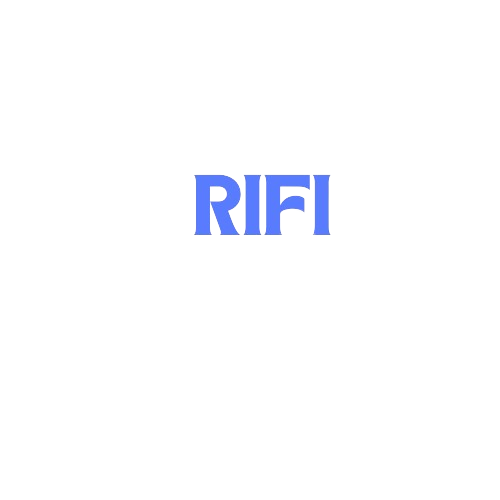
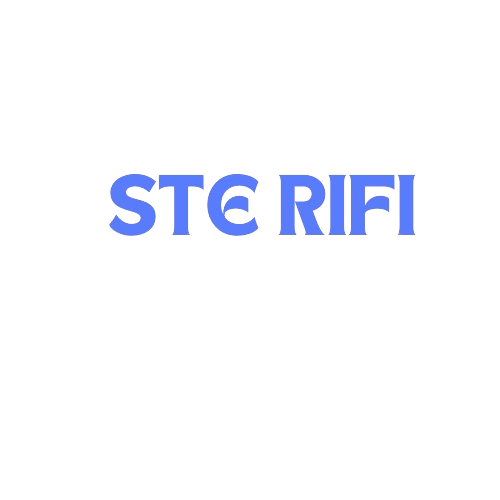
commit

Changed region(s): [[0.21, 0.33, 0.84, 0.48]]

diff --git a/resources/views/welcome.blade.php b/resources/views/welcome.blade.php
@@ -187,7 +187,8 @@
                             </div>
                         </div>
                         <div class="fxt-transformX-L-50 fxt-transition-delay-3">
-                            <a href="login-34.html" class="fxt-logo"><img src="{{asset('images_login/Add_a_heading-removebg-preview.png')}}" alt="Logo"></a>
+                            <a href="#" class="fxt-logo" style="margin-left: 7rem">
+                                <img src="{{asset('images_login/Add_a_heading-removebg-preview.png')}}" alt="Logo"></a>
                         </div>
                         <div class="fxt-transformX-L-50 fxt-transition-delay-5">
                             <div class="fxt-middle-content">
